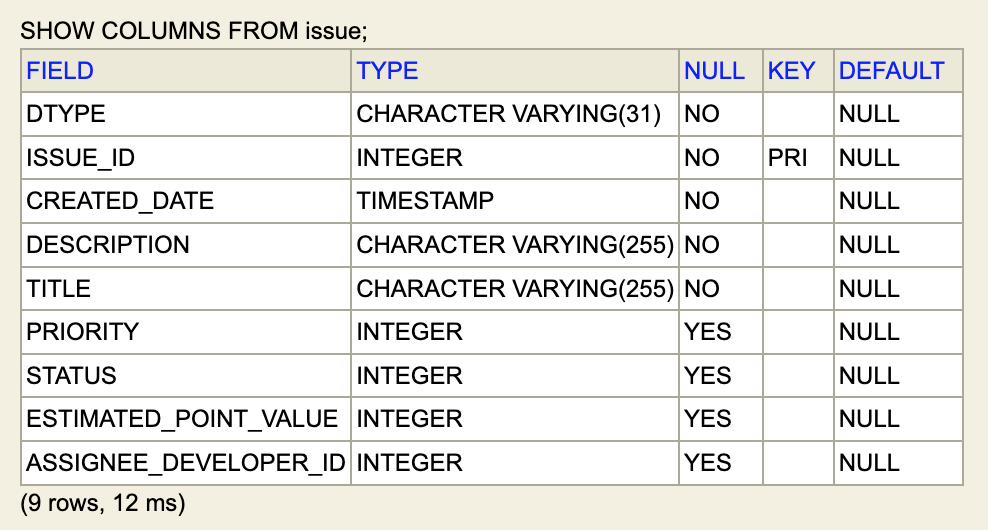
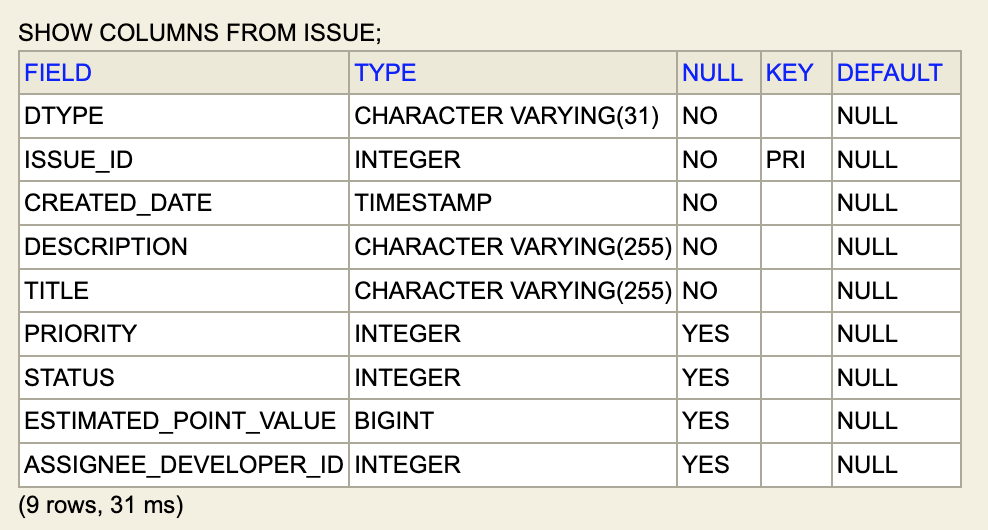
Added endpoint and business logic to plan Stories

Changed region(s): [[0.0, 0.0302, 1.0, 0.966]]

diff --git a/src/main/java/com/company/product/service/StoryService.java b/src/main/java/com/company/product/service/StoryService.java
@@ -1,14 +1,20 @@
 package com.company.product.service;
 
 import com.company.product.model.Story;
+import com.company.product.model.StoryStatus;
 import com.company.product.payload.request.StoryRequest;
+import com.company.product.repository.DeveloperRepository;
 import com.company.product.repository.StoryRepository;
 import org.slf4j.Logger;
 import org.slf4j.LoggerFactory;
 import org.springframework.beans.factory.annotation.Autowired;
 import org.springframework.stereotype.Service;
 
+import java.util.ArrayList;
+import java.util.Comparator;
+import java.util.HashMap;
 import java.util.List;
+import java.util.Map;
 import java.util.Objects;
 import java.util.Optional;
 
@@ -20,12 +26,41 @@ public class StoryService {
     @Autowired
     private StoryRepository storyRepository;
 
+    @Autowired
+    private DeveloperRepository developerRepository;
+
     public List<Story> findAll() {
         return storyRepository.findAll();
     }
 
     public Optional<Story> findById(int id) {
         return storyRepository.findById(id);
+    }
+
+    public Map<String,List<Story>> plan() {
+        int week = 0;
+        Map<String,List<Story>> storyPlan = new HashMap<>();
+        long storyPointsPerWeek = developerRepository.count() * 10;
+        List<Story> stories = storyRepository.findByStatus(StoryStatus.NEW);
+
+        while (!stories.isEmpty()) {
+            long storyPoints = 0;
+            List<Story> weeklyStories = new ArrayList<>();
+            while (storyPoints < storyPointsPerWeek) {
+                long finalStoryPoints = storyPoints;
+                Optional<Story> story = stories.stream()
+                        .filter(s -> s.getEstimatedPointValue() <= (storyPointsPerWeek - finalStoryPoints))
+                        .max(Comparator.comparing(Story::getEstimatedPointValue));
+                if (story.isEmpty() || (storyPoints + story.get().getEstimatedPointValue()) > storyPointsPerWeek) break;
+                storyPoints += story.get().getEstimatedPointValue();
+                weeklyStories.add(story.get());
+                stories.remove(story.get());
+            }
+            week++;
+            storyPlan.put("Week " + week, weeklyStories);
+        }
+
+        return storyPlan;
     }
 
     public Story save(StoryRequest storyRequest) {

diff --git a/src/main/java/com/company/product/controller/StoryController.java b/src/main/java/com/company/product/controller/StoryController.java
@@ -40,6 +40,11 @@ public class StoryController {
             return new ResponseEntity<>(HttpStatus.NOT_FOUND);
     }
 
+    @GetMapping("/plan")
+    public ResponseEntity plan() {
+        return new ResponseEntity<>(storyService.plan(), HttpStatus.OK);
+    }
+
     @PostMapping
     public ResponseEntity<Story> save(@RequestBody @Valid StoryRequest storyRequest) {
         return new ResponseEntity<>(storyService.save(storyRequest), HttpStatus.OK);

diff --git a/src/main/java/com/company/product/repository/StoryRepository.java b/src/main/java/com/company/product/repository/StoryRepository.java
@@ -1,10 +1,15 @@
 package com.company.product.repository;
 
 import com.company.product.model.Story;
+import com.company.product.model.StoryStatus;
 import org.springframework.data.jpa.repository.JpaRepository;
 import org.springframework.stereotype.Repository;
 
+import java.util.List;
+
 @Repository
 public interface StoryRepository extends JpaRepository<Story, Integer> {
+
+    List<Story> findByStatus(StoryStatus status);
 
 }

diff --git a/src/main/java/com/company/product/payload/request/StoryRequest.java b/src/main/java/com/company/product/payload/request/StoryRequest.java
@@ -13,7 +13,7 @@ import javax.validation.constraints.Min;
 public class StoryRequest extends IssueRequest {
 
     @Min(value = 1, message = "Estimated point value should not be less than 1")
-    private int estimatedPointValue;
+    private long estimatedPointValue;
 
     private StoryStatus status;
 

diff --git a/src/main/java/com/company/product/model/Story.java b/src/main/java/com/company/product/model/Story.java
@@ -12,7 +12,7 @@ import javax.persistence.Entity;
 public class Story extends Issue {
 
     @Column
-    private int estimatedPointValue;
+    private long estimatedPointValue;
 
     @Column
     private StoryStatus status = StoryStatus.NEW;

diff --git a/README.md b/README.md
@@ -84,6 +84,10 @@ POST /api/v1/stories
 ```
 GET /api/v1/stories
 ```
+### Retrieve the plan for Stories
+```
+GET /api/v1/stories/plan
+```
 ### Find a Story resource
 ```
 GET /api/v1/stories/{issueId}
